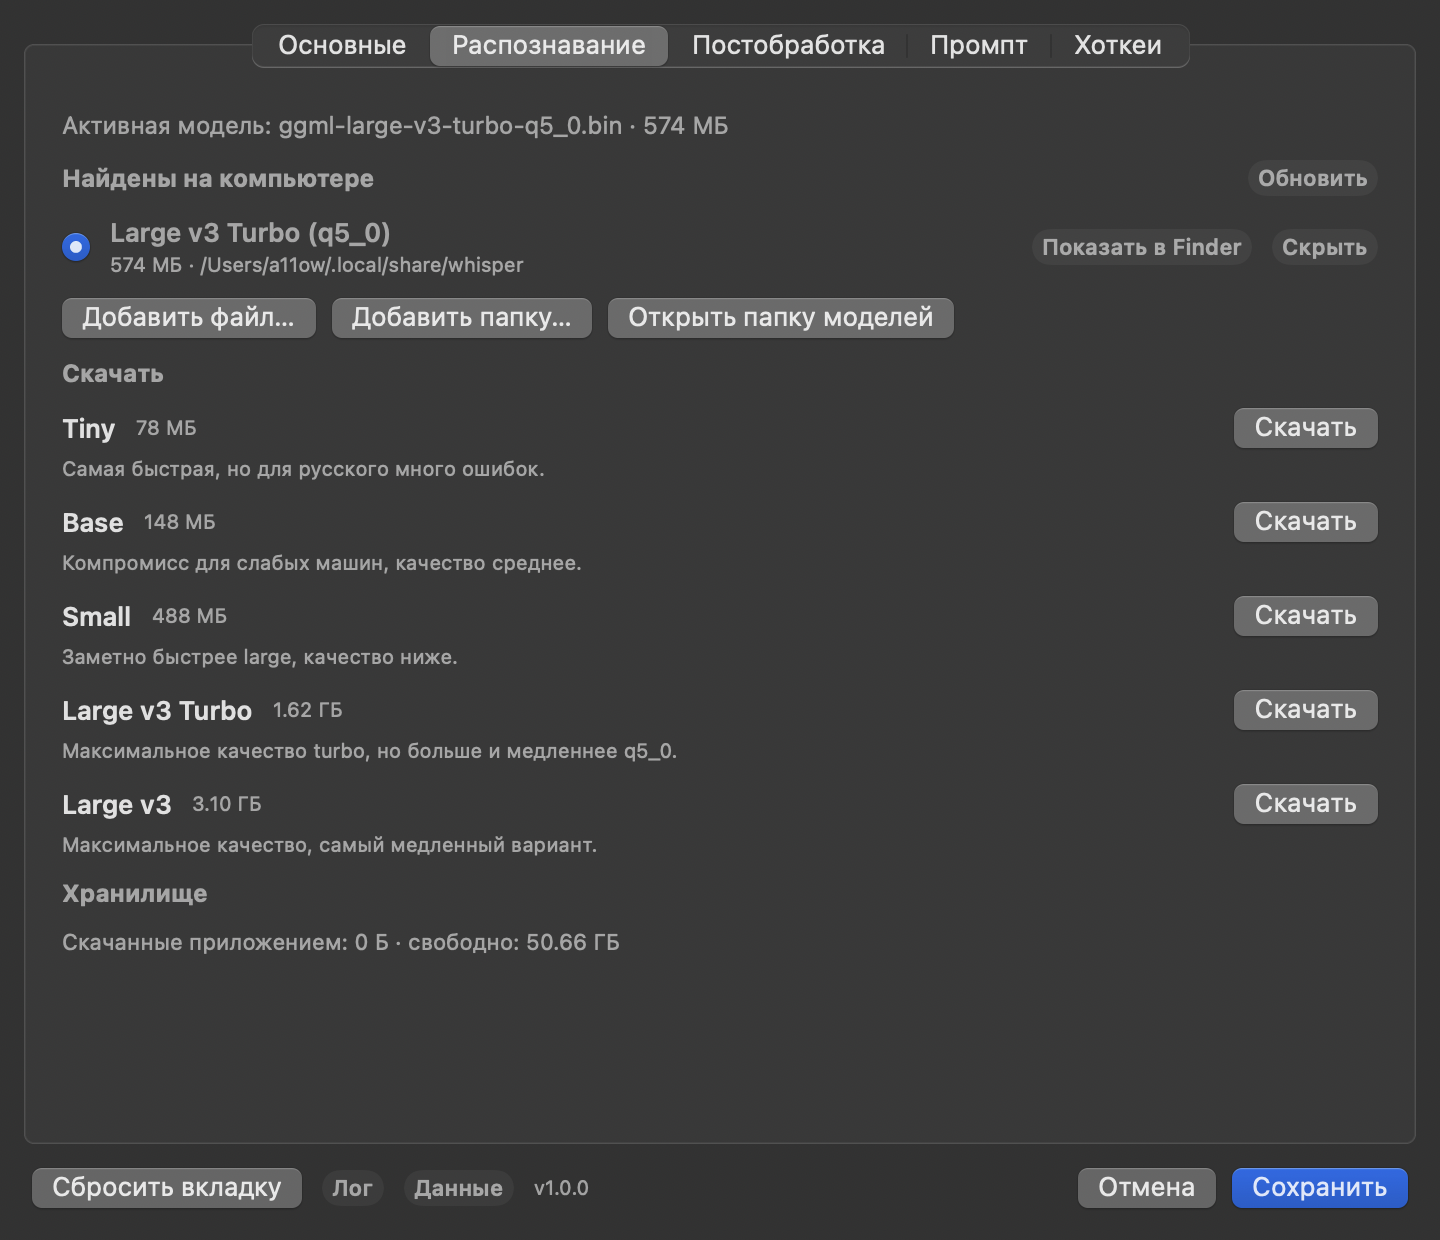
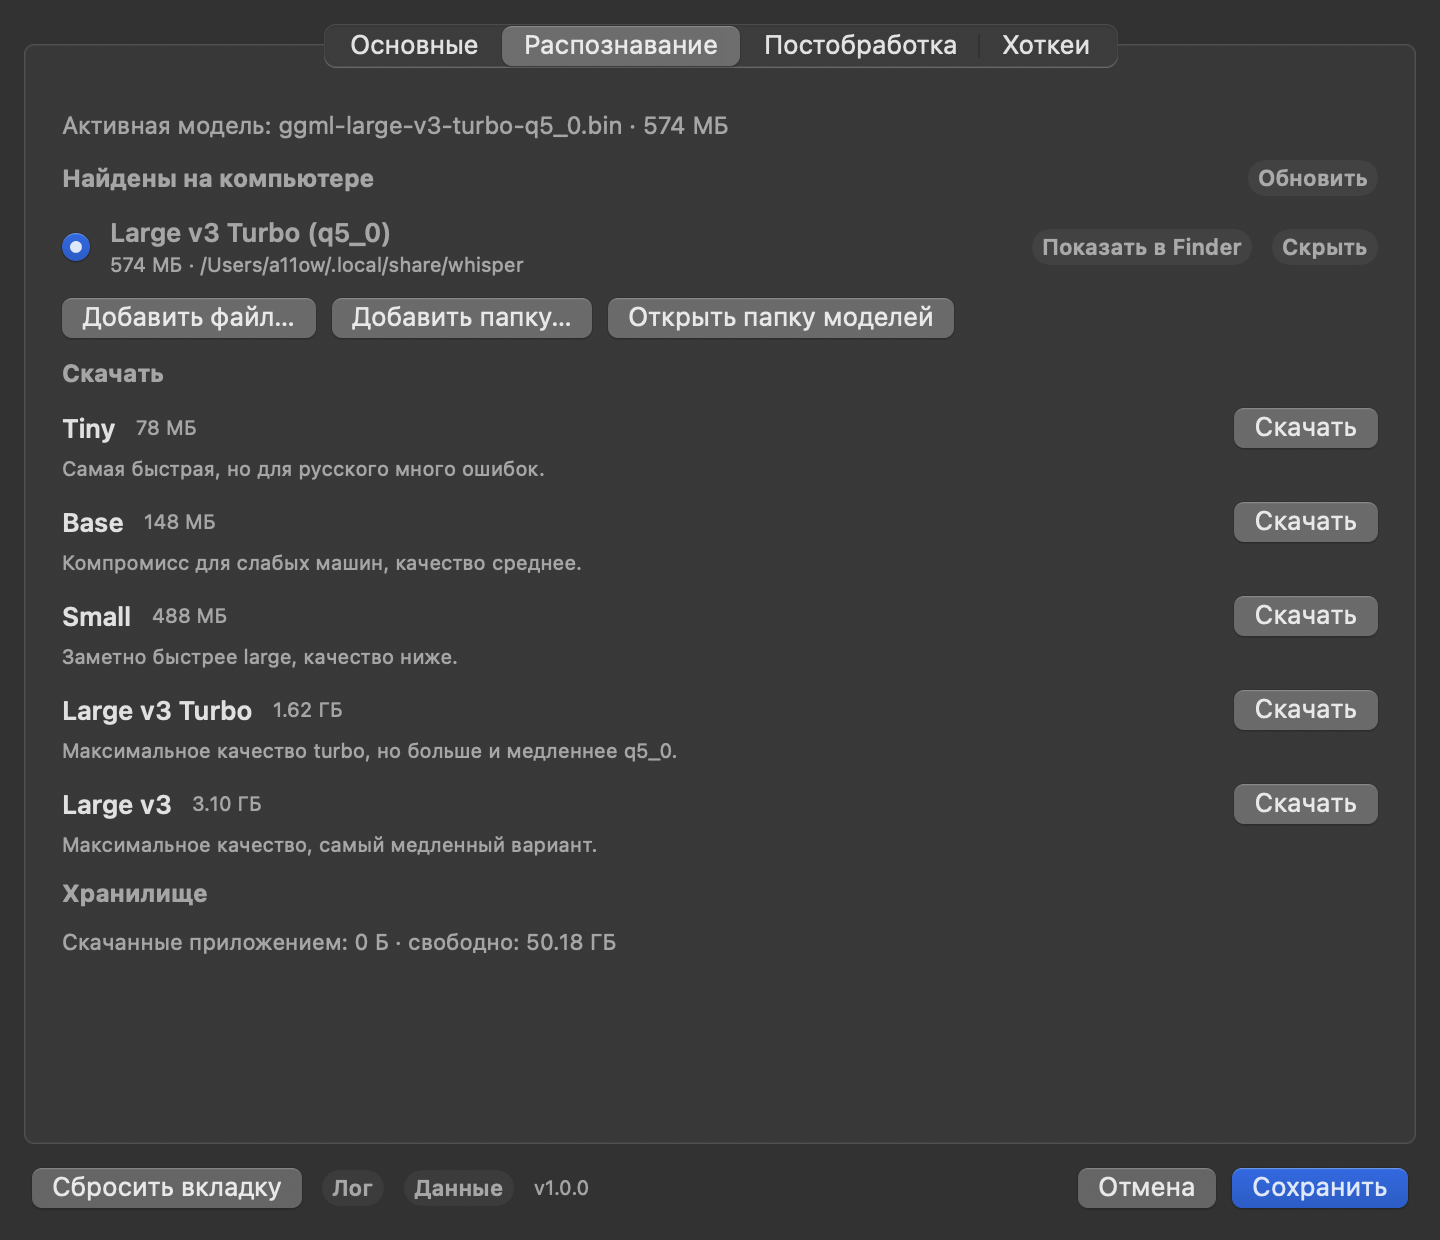
Промпт перенесён в раздел «Постобработка»

Changed region(s): [[0.1875, 0.0, 0.8125, 0.0613], [0.375, 0.7355, 0.4375, 0.7661]]

diff --git a/app/UI/SettingsWindow.swift b/app/UI/SettingsWindow.swift
@@ -29,6 +29,7 @@ final class SettingsWindow: NSWindowController, NSWindowDelegate {
     private var modelGroup: NSStackView!
     private var baseURLGroup: NSStackView!
     private var apiKeyGroup: NSStackView!
+    private var promptGroup: NSStackView!
     private var restoreCheck: NSButton!
     private var hudCheck: NSButton!
     private var resetButton: NSButton!
@@ -146,11 +147,6 @@ final class SettingsWindow: NSWindowController, NSWindowDelegate {
         ai.label = "Постобработка"
         ai.view = buildAI()
         tabView.addTabViewItem(ai)
-
-        let prompt = NSTabViewItem(identifier: "prompt")
-        prompt.label = "Промпт"
-        prompt.view = buildPrompt()
-        tabView.addTabViewItem(prompt)
 
         let hotkeys = NSTabViewItem(identifier: "hotkeys")
         hotkeys.label = "Хоткеи"
@@ -310,18 +306,37 @@ final class SettingsWindow: NSWindowController, NSWindowDelegate {
     private func buildAI() -> NSView {
         let view = NSView()
 
+        let scroll = NSScrollView()
+        scroll.translatesAutoresizingMaskIntoConstraints = false
+        scroll.hasVerticalScroller = true
+        scroll.autohidesScrollers = true
+        scroll.borderType = .noBorder
+        scroll.drawsBackground = false
+        view.addSubview(scroll)
+
+        let doc = FlippedView()
+        doc.translatesAutoresizingMaskIntoConstraints = false
+        scroll.documentView = doc
+
         let stack = NSStackView()
         stack.orientation = .vertical
         stack.alignment = .leading
         stack.spacing = 10
         stack.edgeInsets = NSEdgeInsets(top: 20, left: 16, bottom: 16, right: 16)
         stack.translatesAutoresizingMaskIntoConstraints = false
-        view.addSubview(stack)
+        doc.addSubview(stack)
+
         NSLayoutConstraint.activate([
-            stack.topAnchor.constraint(equalTo: view.topAnchor),
-            stack.leadingAnchor.constraint(equalTo: view.leadingAnchor),
-            stack.trailingAnchor.constraint(equalTo: view.trailingAnchor),
-            stack.bottomAnchor.constraint(lessThanOrEqualTo: view.bottomAnchor),
+            scroll.topAnchor.constraint(equalTo: view.topAnchor),
+            scroll.leadingAnchor.constraint(equalTo: view.leadingAnchor),
+            scroll.trailingAnchor.constraint(equalTo: view.trailingAnchor),
+            scroll.bottomAnchor.constraint(equalTo: view.bottomAnchor),
+
+            doc.widthAnchor.constraint(equalTo: scroll.contentView.widthAnchor),
+            stack.topAnchor.constraint(equalTo: doc.topAnchor),
+            stack.leadingAnchor.constraint(equalTo: doc.leadingAnchor),
+            stack.trailingAnchor.constraint(equalTo: doc.trailingAnchor),
+            stack.bottomAnchor.constraint(equalTo: doc.bottomAnchor),
         ])
 
         let modeLabel = label("Способ обработки")
@@ -364,7 +379,12 @@ final class SettingsWindow: NSWindowController, NSWindowDelegate {
         aiHint.font = .systemFont(ofSize: 11)
         aiHint.textColor = .secondaryLabelColor
 
-        let rows: [NSView] = [modeRow, providerGroup, modelGroup, baseURLGroup, apiKeyGroup, testRow, aiHint]
+        let separator = NSBox()
+        separator.boxType = .separator
+        promptGroup = buildPromptSection()
+
+        let rows: [NSView] = [modeRow, providerGroup, modelGroup, baseURLGroup,
+                              apiKeyGroup, testRow, aiHint, separator, promptGroup]
         for row in rows {
             stack.addArrangedSubview(row)
             row.translatesAutoresizingMaskIntoConstraints = false
@@ -390,6 +410,7 @@ final class SettingsWindow: NSWindowController, NSWindowDelegate {
         modelGroup?.isHidden = mode == "off"
         baseURLGroup?.isHidden = mode != "direct"
         apiKeyGroup?.isHidden = mode != "direct"
+        promptGroup?.isHidden = mode == "off"
         testButton?.isEnabled = mode != "off"
         testResultLabel?.stringValue = ""
         switch mode {
@@ -948,10 +969,14 @@ final class SettingsWindow: NSWindowController, NSWindowDelegate {
 
     // MARK: - Prompt
 
-    private func buildPrompt() -> NSView {
-        let view = NSView()
+    private func buildPromptSection() -> NSStackView {
+        let section = NSStackView()
+        section.orientation = .vertical
+        section.alignment = .leading
+        section.spacing = 6
+
         let fixLabel = label("Промпт для исправления текста  (⌥Space)", bold: true)
-        let fixHint = label("Пустое поле заменяется встроенным промптом при открытии настроек.")
+        let fixHint = label("Используется при включённой постобработке. Пустое поле заменяется встроенным промптом.")
 
         let reset = NSButton(title: "Сбросить к встроенному", target: self, action: #selector(resetPromptToDefault))
         reset.bezelStyle = .rounded
@@ -966,40 +991,20 @@ final class SettingsWindow: NSWindowController, NSWindowDelegate {
         promptTestLabel.maximumNumberOfLines = 2
 
         let fixScroll = makeScroll(fixText)
+        fixScroll.heightAnchor.constraint(equalToConstant: 220).isActive = true
 
-        fixLabel.translatesAutoresizingMaskIntoConstraints = false
-        fixHint.translatesAutoresizingMaskIntoConstraints = false
-        buttons.translatesAutoresizingMaskIntoConstraints = false
-        promptTestLabel.translatesAutoresizingMaskIntoConstraints = false
-        view.addSubview(fixLabel)
-        view.addSubview(buttons)
-        view.addSubview(fixScroll)
-        view.addSubview(fixHint)
-        view.addSubview(promptTestLabel)
+        section.addArrangedSubview(fixLabel)
+        section.addArrangedSubview(buttons)
+        section.addArrangedSubview(fixScroll)
+        section.addArrangedSubview(fixHint)
+        section.addArrangedSubview(promptTestLabel)
 
-        NSLayoutConstraint.activate([
-            fixLabel.topAnchor.constraint(equalTo: view.topAnchor, constant: 16),
-            fixLabel.leadingAnchor.constraint(equalTo: view.leadingAnchor, constant: 16),
-            fixLabel.trailingAnchor.constraint(equalTo: view.trailingAnchor, constant: -16),
+        for view in [fixLabel, fixScroll, fixHint, promptTestLabel] as [NSView] {
+            view.translatesAutoresizingMaskIntoConstraints = false
+            view.widthAnchor.constraint(equalTo: section.widthAnchor).isActive = true
+        }
 
-            buttons.topAnchor.constraint(equalTo: fixLabel.bottomAnchor, constant: 8),
-            buttons.leadingAnchor.constraint(equalTo: view.leadingAnchor, constant: 16),
-
-            fixScroll.topAnchor.constraint(equalTo: buttons.bottomAnchor, constant: 8),
-            fixScroll.leadingAnchor.constraint(equalTo: view.leadingAnchor, constant: 16),
-            fixScroll.trailingAnchor.constraint(equalTo: view.trailingAnchor, constant: -16),
-            fixScroll.heightAnchor.constraint(equalToConstant: 280),
-
-            fixHint.topAnchor.constraint(equalTo: fixScroll.bottomAnchor, constant: 6),
-            fixHint.leadingAnchor.constraint(equalTo: view.leadingAnchor, constant: 16),
-            fixHint.trailingAnchor.constraint(equalTo: view.trailingAnchor, constant: -16),
-
-            promptTestLabel.topAnchor.constraint(equalTo: fixHint.bottomAnchor, constant: 4),
-            promptTestLabel.leadingAnchor.constraint(equalTo: view.leadingAnchor, constant: 16),
-            promptTestLabel.trailingAnchor.constraint(equalTo: view.trailingAnchor, constant: -16),
-        ])
-
-        return view
+        return section
     }
 
     private func label(_ text: String, bold: Bool = false) -> NSTextField {
@@ -1471,8 +1476,6 @@ final class SettingsWindow: NSWindowController, NSWindowDelegate {
         guard confirm.runModal() == .alertFirstButtonReturn else { return }
 
         switch tabView.selectedTabViewItem?.identifier as? String {
-        case "prompt":
-            fixText.string = DefaultPrompts.fix
         case "hotkeys":
             toggleHotkey = HotKeySetting()
             toggleHotkeyButton.title = toggleHotkey.display
@@ -1482,6 +1485,8 @@ final class SettingsWindow: NSWindowController, NSWindowDelegate {
             baseURLField.stringValue = ""
             apiKeyField.stringValue = ""
             modeControl.selectedSegment = 0
+            fixText.string = DefaultPrompts.fix
+            promptTestLabel?.stringValue = ""
             aiModeChanged()
         case "models":
             modelDirs = []

diff --git a/app/App/AppDelegate.swift b/app/App/AppDelegate.swift
@@ -241,14 +241,10 @@ final class AppDelegate: NSObject, NSApplicationDelegate {
             self.settingsWindow?.selectTab("models")
             DispatchQueue.main.asyncAfter(deadline: .now() + 0.4) {
                 capture(to: "/tmp/runvoice-settings-models.png")
-                self.settingsWindow?.selectTab("prompt")
+                self.settingsWindow?.selectTab("hotkeys")
                 DispatchQueue.main.asyncAfter(deadline: .now() + 0.4) {
-                    capture(to: "/tmp/runvoice-settings-prompt.png")
-                    self.settingsWindow?.selectTab("hotkeys")
-                    DispatchQueue.main.asyncAfter(deadline: .now() + 0.4) {
-                        capture(to: "/tmp/runvoice-settings-hotkeys.png")
-                        NSApp.terminate(nil)
-                    }
+                    capture(to: "/tmp/runvoice-settings-hotkeys.png")
+                    NSApp.terminate(nil)
                 }
             }
         }

diff --git a/README.md b/README.md
@@ -120,7 +120,7 @@ self/runvoice/
 - **App** — `AppDelegate` (меню, состояния, вставка ⌘V), `HotkeyMonitor`
   (глобальные хоткеи через CGEventTap), `DictationRunner` (запуск `dictate.sh`).
 - **UI** — `HUDController` (бабл и его позиционирование), `BubbleView` (форма),
-  `SettingsWindow` (вкладки General / AI / Модели / Prompt / Hotkeys).
+  `SettingsWindow` (вкладки Основные / Распознавание / Постобработка / Хоткеи).
 
 Сборка (`scripts/build-app.sh`) компилирует все `.swift` из `app/`, точка входа —
 `app/main.swift`.
@@ -199,7 +199,8 @@ codesign -d -r- /Applications/Runvoice.app
 
 ### Настройки
 
-Меню → **Настройки…** (или запуск приложения с `--settings`). Пять вкладок.
+Меню → **Настройки…** (или запуск приложения с `--settings`). Четыре вкладки:
+**Основные / Распознавание / Постобработка / Хоткеи**.
 
 **Основные**:
 
@@ -246,12 +247,9 @@ codesign -d -r- /Applications/Runvoice.app
 - **Без правки** — вставляется сырой текст Whisper.
 - «Проверить подключение» отправляет тестовую фразу тем же способом и показывает
   ответ модели или ошибку.
-
-**Промпт**:
-
-- Редактор промпта для режима ⌥Space.
-- «Сбросить к встроенному» возвращает текст по умолчанию.
-- «Проверить на примере» прогоняет тестовую фразу с текущим промптом.
+- Ниже, в том же разделе, — **промпт для исправления текста**: редактор,
+  «Сбросить к встроенному» и «Проверить на примере».
+- При режиме **«Без правки»** промпт скрывается: без постобработки он не нужен.
 
 **Хоткеи**:
 

diff --git a/docs/screenshots/README.md b/docs/screenshots/README.md
@@ -21,8 +21,7 @@
 |---|---|
 | Основные (язык, микрофон, автозапуск, HUD, диагностика) | [settings-general.png](settings-general.png) |
 | Распознавание (модели Whisper, скачивание, папки) | [settings-models.png](settings-models.png) |
-| Постобработка (OpenCode / свой API, проверка) | [settings-ai.png](settings-ai.png) |
-| Промпт (редактор, сброс, проверка) | [settings-prompt.png](settings-prompt.png) |
+| Постобработка (режим, проверка, промпт) | [settings-ai.png](settings-ai.png) |
 | Хоткеи (диктовка, конфликты macOS) | [settings-hotkeys.png](settings-hotkeys.png) |
 
 ## Как переснять
